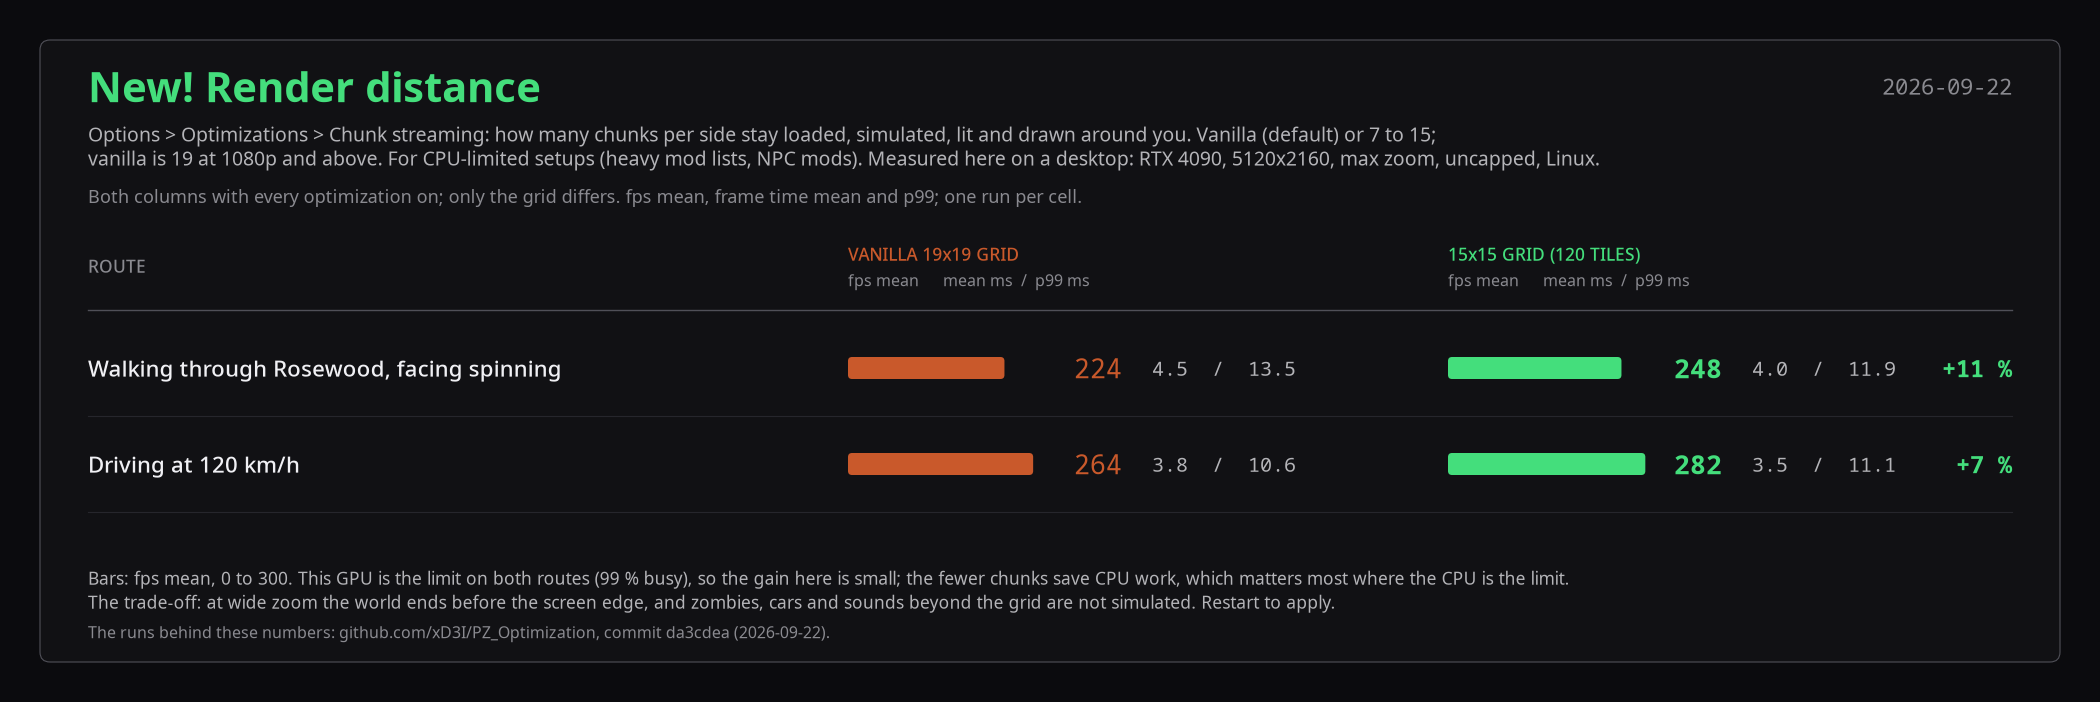
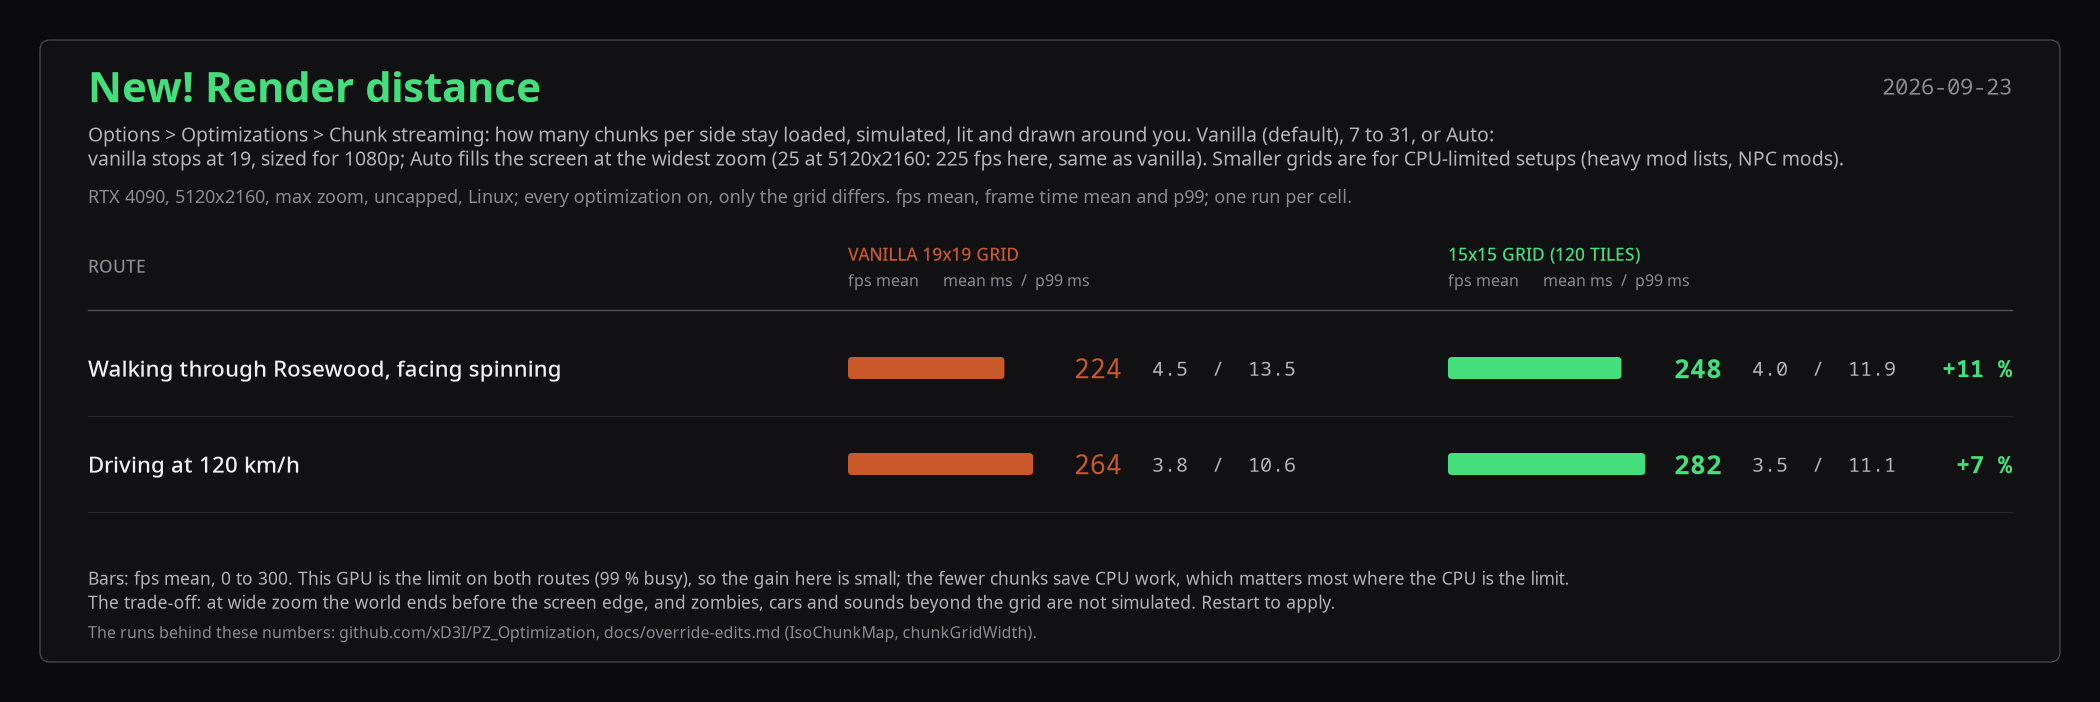
Render distance: Auto (fill the screen at the widest zoom), cap raised to 41
Stock stops the chunk grid at 19 whatever the screen; its diamond covers a
W x H screen only while it is W + 2H pixels wide at 128 / zoom pixels per
tile, so at 5120x2160 and zoom 2.5 it needs 23 chunks and the corners stay
dark from zoom 2.25 outward. chunkGridWidth=auto (pzopt.ChunkGrid) picks the
smallest odd width that covers the screen at Core.getMaxZoom() plus one chunk,
never below stock: 25 at 5120x2160, 21 at 3840x2160, 19 at 1080p. Fixed
widths are clamped to 5..41 now; the tab offers vanilla, auto, 7-15, 19-27
and 31. One "[pzopt] chunk grid:" console line gives the width and inputs.

Desktop (5120x2160, Rosewood spin uncapped): vanilla 19 223.5 fps, auto -> 25
225.1 fps, 31 215.6 fps, no exceptions, corners filled (runs gridauto-*).
Mac (1920x1200, macOS natives): auto -> 19 and 25 both load and run the route
(runs mac-gridauto3-*). tests/pzopt/ChunkGridTest.

queue.sh: a Mac --install opt job now runs run-mac.sh uninstall before
install; sessions had been uninstalling by hand over ssh before submitting,
which removed the classes under a running Mac job twice on 2026-09-23 (jobs
1117 / 1132: NoClassDefFoundError mid-boot, and the next job sat at
click-to-start with nothing installed).

Changed region(s): [[0.0619, 0.1795, 0.8667, 0.2393], [0.031, 0.2692, 0.65, 0.2991], [0.2786, 0.8974, 0.4952, 0.9274]]

diff --git a/src/pzopt/pzopt/Config.java b/src/pzopt/pzopt/Config.java
@@ -22,11 +22,13 @@ import java.util.Properties;
  *                            4 cores or fewer: there the three workers took the game thread's core, Dell i5-6300HQ 2026-09-21)
  *   instrument  true/false   record per-chunk timings and frame times to pzopt-*.out (default false)
  *   wake        true/false   wake the streamer thread on enqueue instead of the stock 140 ms polls (default true)
- *   chunkGridWidth int       the player's chunk grid (loaded / simulated / rendered chunks around the player) is this many
+ *   chunkGridWidth int|auto  the player's chunk grid (loaded / simulated / rendered chunks around the player) is this many
  *                            chunks wide, 8 tiles each, instead of the stock size from the screen resolution (19 at 1080p
- *                            and above, 13 at 720p); odd, clamped to 5..15. Smaller = less world simulated, lit and baked
+ *                            and above, 13 at 720p); odd, clamped to 5..41. Smaller = less world simulated, lit and baked
  *                            around the player (CPU-bound setups, heavy mod lists) but the world ends nearer the screen
- *                            edge at wide zoom. 0 = stock (default 0; IsoChunkMap.CalcChunkWidth)
+ *                            edge at wide zoom; larger = more of everything. "auto" = wide enough to fill the screen at the
+ *                            widest zoom, never below stock (25 at 5120x2160, 21 at 3840x2160, stock 19 at 1080p;
+ *                            pzopt.ChunkGrid). 0 = stock (default 0; IsoChunkMap.CalcChunkWidth)
  *   dev         true/false   development assertions, e.g. game-thread-only code reached from a worker (default false)
  *   luaChecksumExempt true/false  the pzopt Lua files (media/lua/{shared,client}/pzopt/) are left out of the multiplayer
  *                            Lua checksum a client sends to the server, like SandboxVars.lua is in stock: a server without
@@ -302,7 +304,9 @@ public final class Config {
    public static final int WORKERS = clampWorkers(integer("workers", defaultWorkers(Runtime.getRuntime().availableProcessors())));
    public static final boolean INSTRUMENT = bool("instrument", false);
    public static final boolean WAKE = bool("wake", true);
-   public static final int CHUNK_GRID_WIDTH = Math.max(0, integer("chunkGridWidth", 0)); // chunks per side of the player's chunk grid; 0 = the stock screen-size value (IsoChunkMap.CalcChunkWidth)
+   public static final String CHUNK_GRID_SETTING = string("chunkGridWidth", "0"); // chunks per side of the player's chunk grid, or "auto"; 0 = the stock screen-size value (IsoChunkMap.CalcChunkWidth, pzopt.ChunkGrid)
+   public static final boolean CHUNK_GRID_AUTO = "auto".equalsIgnoreCase(CHUNK_GRID_SETTING);
+   public static final int CHUNK_GRID_WIDTH = CHUNK_GRID_AUTO ? 0 : Math.max(0, parseInt("chunkGridWidth", CHUNK_GRID_SETTING, 0));
    public static final boolean DEV = bool("dev", false);
    public static final boolean LUA_CHECKSUM_EXEMPT = bool("luaChecksumExempt", true); // NetChecksum skips media/lua/*/pzopt/ files: they only exist on clients
    public static final boolean UPDATE_CHECK = bool("updateCheck", true); // main menu: check the GitHub releases for a newer build and offer the update item (pzopt.Updater)
@@ -550,6 +554,15 @@ public final class Config {
       return register(key, v == null ? def : v.trim(), def);
    }
 
+   private static int parseInt(String key, String v, int def) {
+      try {
+         return Integer.parseInt(v.trim());
+      } catch (NumberFormatException e) {
+         Log.warn("bad integer for " + key + ": " + v + "; using " + def);
+         return def;
+      }
+   }
+
    private static int integer(String key, int def) {
       String v = raw(key);
       if (v == null) {
@@ -619,7 +632,7 @@ public final class Config {
 
    public static String describe() {
       return "parallel=" + PARALLEL + " workers=" + WORKERS + " (effective " + effectiveWorkers() + ", cores "
-            + Runtime.getRuntime().availableProcessors() + ") wake=" + WAKE + " (effective " + effectiveWake() + ") chunkGridWidth=" + CHUNK_GRID_WIDTH + " instrument=" + INSTRUMENT + " dev=" + DEV + " luaChecksumExempt=" + LUA_CHECKSUM_EXEMPT
+            + Runtime.getRuntime().availableProcessors() + ") wake=" + WAKE + " (effective " + effectiveWake() + ") chunkGridWidth=" + CHUNK_GRID_SETTING + " instrument=" + INSTRUMENT + " dev=" + DEV + " luaChecksumExempt=" + LUA_CHECKSUM_EXEMPT
             + " translucentCache=" + TRANSLUCENT_CACHE + " hotsaveIntervalSec=" + HOTSAVE_INTERVAL_SEC + " persistentVbo=" + PERSISTENT_VBO + " treesInChunkTexture=" + TREES_IN_CHUNK_TEXTURE + " windowsInChunkTexture=" + WINDOWS_IN_CHUNK_TEXTURE + " translucentTilesInChunkTexture=" + TRANSLUCENT_TILES_IN_CHUNK_TEXTURE + " treeBakePass=" + TREE_BAKE_PASS + " curtainDepthNudgePct=" + Math.round(CURTAIN_DEPTH_NUDGE * 100.0F) + " bakeBudget=" + BAKE_BUDGET + " lightingBudget=" + LIGHTING_BUDGET + " lightingRebakeMs=" + LIGHTING_REBAKE_MS + " rebakeBudget=" + REBAKE_BUDGET + " rebakeMaxFrames=" + REBAKE_MAX_FRAMES + " lightingRebakeBudget=" + LIGHTING_REBAKE_BUDGET + " lightingRebakeMaxFrames=" + LIGHTING_REBAKE_MAX_FRAMES + " zoomRetain=" + ZOOM_RETAIN + " zoomRebakeBudget=" + ZOOM_REBAKE_BUDGET + " zoomFrameMs=" + Math.round(ZOOM_FRAME_MS) + " zoomPlaceholder=" + ZOOM_PLACEHOLDER + " zoomEaseMs=" + ZOOM_EASE_MS + " zoomEase=" + ZOOM_EASE + " lightingStrongDelta=" + LIGHTING_STRONG_DELTA + " lightingStrongBudget=" + LIGHTING_STRONG_BUDGET + " lightingStrongFrameMs=" + Math.round(LIGHTING_STRONG_FRAME_MS) + " lightingGlobalDeltaPct=" + Math.round(LIGHTING_GLOBAL_DELTA * 100.0F) + " lightingFlush=" + LIGHTING_FLUSH + " lightSwitchCheckFrames=" + LIGHT_SWITCH_CHECK_FRAMES + " cutawayFast=" + CUTAWAY_FAST + " cutawayRadius=" + CUTAWAY_RADIUS + " gridStackInterval=" + GRID_STACK_INTERVAL + " roofHideDebounceFrames=" + ROOF_HIDE_DEBOUNCE_FRAMES + " weatherMaskIdleSkip=" + WEATHER_MASK_IDLE_SKIP + " worldSoundFast=" + WORLD_SOUND_FAST + " saveCellAsync=" + SAVE_CELL_ASYNC + " chunkMapFast=" + CHUNK_MAP_FAST + " propertySurfaceNoAlloc=" + PROPERTY_SURFACE_NOALLOC + " weatherNoGlGet=" + WEATHER_NO_GLGET + " lightingVisionParallel=" + LIGHTING_VISION_PARALLEL + " threadNice=" + THREAD_NICE + " profileHandshake=" + PROFILE_HANDSHAKE + " jitMode=" + JIT_MODE + " jitC1Cores=" + JIT_C1_CORES + " vehicleCull=" + VEHICLE_CULL + " playerLosFast=" + PLAYER_LOS_FAST + " zombieSpotFast=" + ZOMBIE_SPOT_FAST + " playerLosNative=" + PLAYER_LOS_NATIVE + " animBonesParallel=" + ANIM_BONES_PARALLEL + " frameThreads=" + FRAME_THREADS + " actionEvalParallel=" + ACTION_EVAL_PARALLEL + " actionSnapshotFilter=" + ACTION_SNAPSHOT_FILTER + " emitterParamSkip=" + EMITTER_PARAM_SKIP + " separateFast=" + SEPARATE_FAST + " separateParallel=" + SEPARATE_PARALLEL + " actionGroupCache=" + ACTION_GROUP_CACHE + " profilerThreadMemo=" + PROFILER_THREAD_MEMO + " sleepCheckMemo=" + SLEEP_CHECK_MEMO + " stateParamMemo=" + STATE_PARAM_MEMO + " zombieSimLodTiles=" + ZOMBIE_SIM_LOD_TILES + " zombieSimLodSteps=" + ZOMBIE_SIM_LOD_STEPS + " zombieCheckSpread=" + ZOMBIE_CHECK_SPREAD + " lightingReadParallel=" + LIGHTING_READ_PARALLEL + " zombieCullSortFast=" + ZOMBIE_CULL_SORT_FAST + " skinTransformsPrecompute=" + SKIN_TRANSFORMS_PRECOMPUTE + " skinPalettePrecompute=" + SKIN_PALETTE_PRECOMPUTE + " shadowPrep=" + SHADOW_PREP + " boneIndexCache=" + BONE_INDEX_CACHE + " ecsLookupFast=" + ECS_LOOKUP_FAST + " actionConditionFast=" + ACTION_CONDITION_FAST + " charDrawPrep=" + CHAR_DRAW_PREP + " zombieAtlasFast=" + ZOMBIE_ATLAS_FAST + " charDrawThreads=" + CHAR_DRAW_THREADS
             + " fileThreads=" + FILE_THREADS + " fileInflight=" + FILE_INFLIGHT + " textureBufferMb=" + TEXTURE_BUFFER_MB + " parallelDepthMaps=" + PARALLEL_DEPTH_MAPS + " loaderCpuFixes=" + LOADER_CPU_FIXES + " loadWorkers=" + LOAD_WORKERS + " scriptParserFast=" + SCRIPT_PARSER_FAST + " fmodAsync=" + FMOD_ASYNC + " noLoadFade=" + NO_LOAD_FADE + " noIntroWait=" + NO_INTRO_WAIT + " noClickToStart=" + NO_CLICK_TO_START + " noLoadingScreen=" + NO_LOADING_SCREEN + " centerFirstLoad=" + CENTER_FIRST_LOAD + " resumeShot=" + RESUME_SHOT + " bootPump=" + BOOT_PUMP + " earlyModels=" + EARLY_MODELS + " luaPrecompile=" + LUA_PRECOMPILE + " preloadAnimSets=" + PRELOAD_ANIM_SETS + " tileDefPreload=" + TILE_DEF_PRELOAD + " skipIdChecks=" + SKIP_ID_CHECKS + " voronoiFast=" + VORONOI_FAST + " earlyTilePacks=" + EARLY_TILE_PACKS + " aotCache=" + AOT_CACHE + " animClipCache=" + ANIM_CLIP_CACHE + " packIndex=" + PACK_INDEX + " itemParamSwitch=" + ITEM_PARAM_SWITCH + " bootFileThreads=" + BOOT_FILE_THREADS + " shaderCache=" + SHADER_CACHE + " mipmapArrays=" + MIPMAP_ARRAYS + " puddleCache=" + PUDDLE_CACHE + " puddleCacheFrames=" + PUDDLE_CACHE_FRAMES + " puddleVbo=" + PUDDLE_VBO + " treeAppend=" + TREE_APPEND + " puddleEarlyZ=" + PUDDLE_EARLY_Z + " rainSplashesFast=" + RAIN_SPLASHES_FAST + " rainTiles=" + RAIN_TILES + " vboBatchKb=" + VBO_BATCH_KB + " vboFastQuads=" + VBO_FAST_QUADS + " fogPass=" + FOG_PASS + " fogScalePct=" + FOG_SCALE_PCT + " fogMaskFrames=" + FOG_MASK_FRAMES
             + " upscaler=" + UPSCALER + " upscalerQuality=" + UPSCALER_QUALITY + " upscalerScalePct=" + UPSCALER_SCALE_PCT + " fsrSharpnessPct=" + FSR_SHARPNESS_PCT + " dlssSharpen=" + DLSS_SHARPEN + " upscalerObjectMv=" + UPSCALER_OBJECT_MV;

diff --git a/tests/pzopt/ChunkGridTest.java b/tests/pzopt/ChunkGridTest.java
@@ -1,0 +1,34 @@
+package pzopt;
+
+/** The chunk grid width: stock pass-through, fixed widths made odd and clamped, and the auto width per screen and zoom. */
+public class ChunkGridTest {
+   public static void main(String[] args) {
+      Check.check(ChunkGrid.width(19, false, 0, 5120, 2160, 2.5F) == 19, "0 = stock");
+      Check.check(ChunkGrid.width(13, false, 0, 1280, 720, 2.5F) == 13, "0 = stock at 720p");
+      Check.check(ChunkGrid.width(19, false, 14, 5120, 2160, 2.5F) == 15, "even widths are made odd");
+      Check.check(ChunkGrid.width(19, false, 1, 5120, 2160, 2.5F) == ChunkGrid.MIN, "clamped to MIN");
+      Check.check(ChunkGrid.width(19, false, 99, 5120, 2160, 2.5F) == ChunkGrid.MAX, "clamped to MAX");
+      // 5120x2160 at zoom 2.5: (5120 + 4320) * 2.5 / 128 = 184.4 tiles = 23.05 chunks -> 24 + 1 margin -> 25
+      Check.check(ChunkGrid.coveringWidth(5120, 2160, 2.5F) == 25, "5120x2160 zoom 2.5: " + ChunkGrid.coveringWidth(5120, 2160, 2.5F));
+      Check.check(ChunkGrid.width(19, true, 0, 5120, 2160, 2.5F) == 25, "auto at 5120x2160");
+      // 1080p at zoom 2.5 needs 11: auto never goes below the stock 19
+      Check.check(ChunkGrid.coveringWidth(1920, 1080, 2.5F) == 11, "1080p zoom 2.5: " + ChunkGrid.coveringWidth(1920, 1080, 2.5F));
+      Check.check(ChunkGrid.width(19, true, 0, 1920, 1080, 2.5F) == 19, "auto keeps the stock width at 1080p");
+      // 4K UHD at zoom 2.5: (3840 + 4320) * 2.5 / 128 = 159.4 tiles = 19.9 chunks -> 20 + 1 -> 21
+      Check.check(ChunkGrid.width(19, true, 0, 3840, 2160, 2.5F) == 21, "auto at 3840x2160: " + ChunkGrid.width(19, true, 0, 3840, 2160, 2.5F));
+      // zoom disabled (max zoom 1.0) at 5120x2160: 73.75 tiles -> 10 + 1 -> 11 < 19
+      Check.check(ChunkGrid.width(19, true, 0, 5120, 2160, 1.0F) == 19, "auto with zoom off keeps stock");
+      Check.check(ChunkGrid.width(19, true, 0, 7680, 4320, 2.5F) == ChunkGrid.MAX, "8K at zoom 2.5 reaches MAX");
+      for (int w : new int[] {1280, 1920, 2560, 3440, 3840, 5120, 7680}) {
+         for (int h : new int[] {720, 1080, 1440, 2160, 4320}) {
+            for (float z : new float[] {1.0F, 1.5F, 2.0F, 2.5F}) {
+               int n = ChunkGrid.coveringWidth(w, h, z);
+               float px = n * 8 * ChunkGrid.TILE_PX / z; // grid diamond width in screen pixels
+               Check.check(n % 2 == 1, "odd");
+               Check.check(px - 8 * ChunkGrid.TILE_PX / z >= w + 2.0F * h, "covers " + w + "x" + h + " at " + z + " with a chunk to spare");
+            }
+         }
+      }
+      System.out.println("ChunkGridTest ok");
+   }
+}

diff --git a/harness/render-distance-card.py b/harness/render-distance-card.py
@@ -13,7 +13,7 @@ import matplotlib.pyplot as plt
 from matplotlib.patches import FancyBboxPatch
 
 OUT = "docs/media/render-distance-card.png"
-DATE = "2026-09-22"
+DATE = "2026-09-23"
 # docs/media-style.md, SDR column
 BG, PANEL, RULE, INK, INK2, MUTED = "#0b0b0e", "#111114", "#26262c", "#f0f0f4", "#b4b4b8", "#8a8a90"
 STOCK, OPT = "#c9592b", "#44de7c"
@@ -42,10 +42,10 @@ X0 = PAD + 48
 text(X0, 86, "New! Render distance", 30, OPT, "bold")
 text(W - X0, 86, DATE, 16, MUTED, ha="right", family=MONO)
 text(X0, 134, "Options > Optimizations > Chunk streaming: how many chunks per side stay loaded, simulated, lit and drawn "
-     "around you. Vanilla (default) or 7 to 15;", 14, INK2)
-text(X0, 158, "vanilla is 19 at 1080p and above. For CPU-limited setups (heavy mod lists, NPC mods). Measured here on a "
-     "desktop: RTX 4090, 5120x2160, max zoom, uncapped, Linux.", 14, INK2)
-text(X0, 196, "Both columns with every optimization on; only the grid differs. fps mean, frame time mean and p99; one run per cell.", 13, MUTED)
+     "around you. Vanilla (default), 7 to 31, or Auto:", 14, INK2)
+text(X0, 158, "vanilla stops at 19, sized for 1080p; Auto fills the screen at the widest zoom (25 at 5120x2160: 225 fps here, "
+     "same as vanilla). Smaller grids are for CPU-limited setups (heavy mod lists, NPC mods).", 14, INK2)
+text(X0, 196, "RTX 4090, 5120x2160, max zoom, uncapped, Linux; every optimization on, only the grid differs. fps mean, frame time mean and p99; one run per cell.", 13, MUTED)
 
 X_ROUTE = X0
 X_S, X_P = X0 + 760, X0 + 1360
@@ -76,6 +76,6 @@ text(X0, H - PAD - 84, "Bars: fps mean, 0 to 300. This GPU is the limit on both 
      "the fewer chunks save CPU work, which matters most where the CPU is the limit.", 12.5, INK2)
 text(X0, H - PAD - 60, "The trade-off: at wide zoom the world ends before the screen edge, and zombies, cars and sounds "
      "beyond the grid are not simulated. Restart to apply.", 12.5, INK2)
-text(X0, H - PAD - 30, "The runs behind these numbers: github.com/xD3I/PZ_Optimization, commit da3cdea (" + DATE + ").", 11.5, MUTED)
+text(X0, H - PAD - 30, "The runs behind these numbers: github.com/xD3I/PZ_Optimization, docs/override-edits.md (IsoChunkMap, chunkGridWidth).", 11.5, MUTED)
 fig.savefig(OUT, dpi=100, facecolor=BG)
 print(OUT, W, H)

diff --git a/src/pzopt/pzopt/ChunkGrid.java b/src/pzopt/pzopt/ChunkGrid.java
@@ -1,0 +1,44 @@
+package pzopt;
+
+/**
+ * The player's chunk grid width (Config.CHUNK_GRID_WIDTH, "Render distance" in the Optimizations tab; 2026-09-22).
+ *
+ * Stock IsoChunkMap.CalcChunkWidth sizes the grid from the screen but only up to a 1080p one: 13 * 1.5 * min(1, screen /
+ * 1080p), made odd, at most 19 chunks (152 tiles). The grid is a diamond on screen; it covers a W x H screen only while
+ * its width in pixels reaches W + 2H (the diamond is twice as wide as tall), and one tile is 128 / zoom pixels across
+ * (Core.getMaxZoom() already folds in the tile scale). At 5120x2160 and the widest zoom (2.5) that is 184 tiles, 23
+ * chunks: the stock 19 leaves dark screen corners from zoom 2.25 outward.
+ *
+ * {@link #width}: 0 = the stock width; "auto" ({@code auto == true}) = the smallest odd width that covers the screen at
+ * the widest zoom plus one chunk (the player may sit anywhere in the centre chunk, half a chunk off-centre each way),
+ * never below the stock width; N = N made odd. The result is clamped to [{@link #MIN}, {@link #MAX}].
+ * {@code tests/pzopt/ChunkGridTest}.
+ */
+public final class ChunkGrid {
+   public static final int MIN = 5;
+   public static final int MAX = 41; // an 8K screen at zoom 2.5 needs 41 in auto
+   /** Screen pixels across one tile's diamond at zoom 1 with the 2x tiles; getMaxZoom() scales for 1x tiles. */
+   static final float TILE_PX = 128.0F;
+
+   private ChunkGrid() {
+   }
+
+   /** The smallest odd width in chunks whose grid diamond covers a screenW x screenH screen at maxZoom, plus one chunk. */
+   public static int coveringWidth(int screenW, int screenH, float maxZoom) {
+      float tiles = (screenW + 2.0F * screenH) * Math.max(maxZoom, 0.1F) / TILE_PX;
+      int chunks = (int)Math.ceil(tiles / 8.0F) + 1;
+      return chunks | 1;
+   }
+
+   public static int width(int stock, boolean auto, int fixed, int screenW, int screenH, float maxZoom) {
+      int w;
+      if (auto) {
+         w = Math.max(stock, coveringWidth(screenW, screenH, maxZoom));
+      } else if (fixed > 0) {
+         w = fixed | 1;
+      } else {
+         return stock;
+      }
+      return Math.min(Math.max(w, MIN), MAX);
+   }
+}

diff --git a/src/overrides/zombie/iso/IsoChunkMap.java b/src/overrides/zombie/iso/IsoChunkMap.java
@@ -123,10 +123,14 @@ public final class IsoChunkMap {
          }
 
          chunkGridWidth = PZMath.min(chunkGridWidth, 19);
-         // pzopt: chunkGridWidth, the player's chunk grid size instead of the screen-size one (0 = the stock value above);
-         // odd like stock so the player's chunk stays the centre, 5..15 chunks
-         if (pzopt.Overrides.enabled() && pzopt.Config.CHUNK_GRID_WIDTH > 0) { // pzopt
-            chunkGridWidth = PZMath.clamp(pzopt.Config.CHUNK_GRID_WIDTH | 1, 5, 15); // pzopt
+         // pzopt: chunkGridWidth, the player's chunk grid size instead of the screen-size one (0 = the stock value above,
+         // "auto" = wide enough to fill the screen at the widest zoom); odd like stock so the player's chunk stays the centre
+         if (pzopt.Overrides.enabled() && (pzopt.Config.CHUNK_GRID_AUTO || pzopt.Config.CHUNK_GRID_WIDTH > 0)) { // pzopt
+            int pzoptStock = chunkGridWidth; // pzopt
+            chunkGridWidth = pzopt.ChunkGrid.width(pzoptStock, pzopt.Config.CHUNK_GRID_AUTO, pzopt.Config.CHUNK_GRID_WIDTH, // pzopt
+               Core.getInstance().getScreenWidth(), Core.getInstance().getScreenHeight(), Core.getInstance().getMaxZoom()); // pzopt
+            pzopt.Log.info("chunk grid: " + chunkGridWidth + " (setting " + pzopt.Config.CHUNK_GRID_SETTING + ", stock " + pzoptStock // pzopt
+               + ", screen " + Core.getInstance().getScreenWidth() + "x" + Core.getInstance().getScreenHeight() + ", max zoom " + Core.getInstance().getMaxZoom() + ")"); // pzopt
          } // pzopt
          chunkWidthInTiles = chunkGridWidth * 8;
       }

diff --git a/docs/override-edits.md b/docs/override-edits.md
@@ -1046,6 +1046,16 @@ and `CalcChunkWidth` runs in `GameLoadingState` before the cell is built, so the
 the session. Default 0 = stock. Options tab combo "Render distance (chunk grid width)": 7..15, so
 at 1080p and above it only ever shrinks the stock 19 (at 720p, 15 is above the stock 13).
 
+Second edit of 2026-09-22 (`chunkGridWidth=auto`, cap raised to 41): the stock width stops at 19 whatever the
+screen, and the grid's diamond covers a W x H screen only while its width reaches W + 2H pixels at 128 / zoom
+pixels per tile, so at 5120x2160 the widest zoom (2.5) needs 23 chunks and the stock 19 leaves dark screen
+corners from zoom 2.25 outward (the maintainer's report). The width is now `pzopt.ChunkGrid.width(stock, auto,
+fixed, screen W, screen H, Core.getMaxZoom())`: "auto" = the smallest odd width covering the screen at the widest
+zoom plus one chunk (the player sits anywhere in the centre chunk), never below the stock width (25 at 5120x2160,
+21 at 3840x2160, the stock 19 at 1080p); a number = that width made odd; both clamped to 5..41 (an 8K screen at
+zoom 2.5 needs 41). One `[pzopt] chunk grid:` console line gives the width and its inputs. Tests:
+`tests/pzopt/ChunkGridTest`. The key is read as a string now (`Config.CHUNK_GRID_SETTING`).
+
 ## zombie.iso.fboRenderChunk.FBORenderCell (edit of 2026-09-20 evening, occlusion grid on lighting-only frames)
 
 `renderTilesInternal` decides whether to rebuild the occluded-squares grid through
